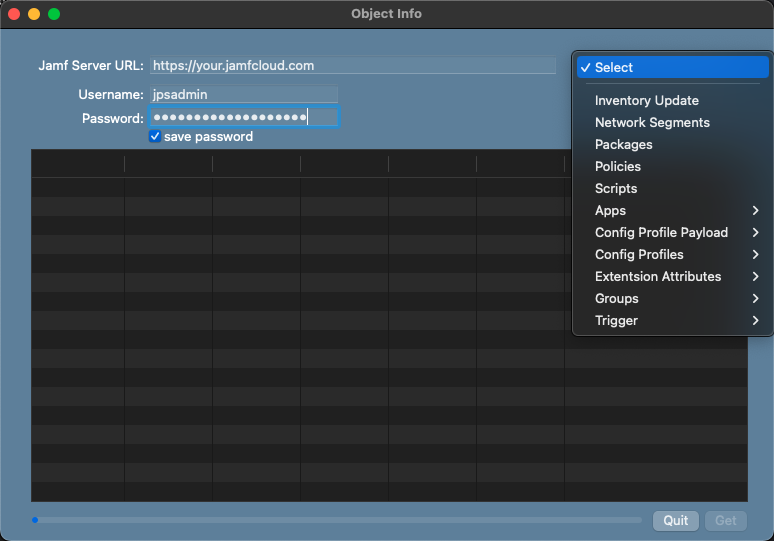
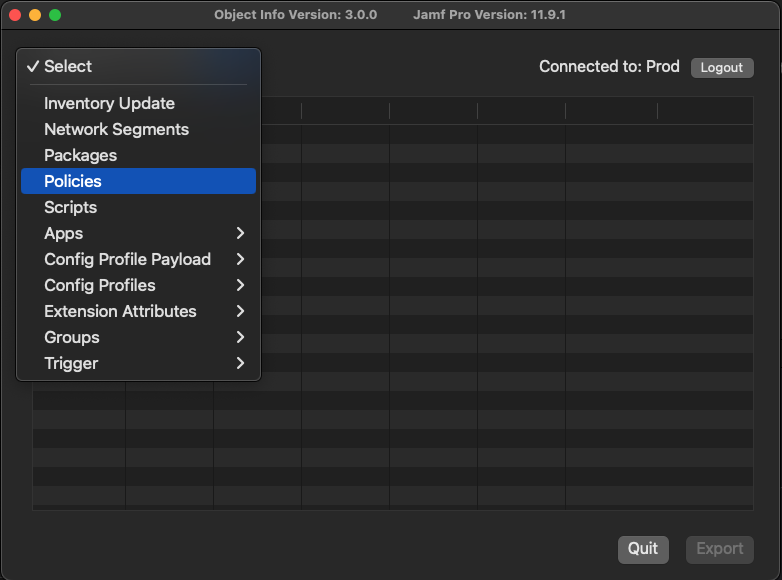
update readme

diff --git a/README.md b/README.md
@@ -27,6 +27,8 @@ Unused objects are not displayed.  For example, if a package is not used in eith
 
 **History**
 
+2024-09-27: Version 3.0.0 - Address issues 16, 19, and 20. Add login window and update UI.
+
 2024-01-24: Version 2.0.2 - Fix issue with version lookup on Jamf Pro 11.
 
 2023-07-14: Version 2.0.1 - Add scan of extension attributes in advanced searches display (issue #14).  Provide information if an EA is used in an advanced search for criteria and/or display.
